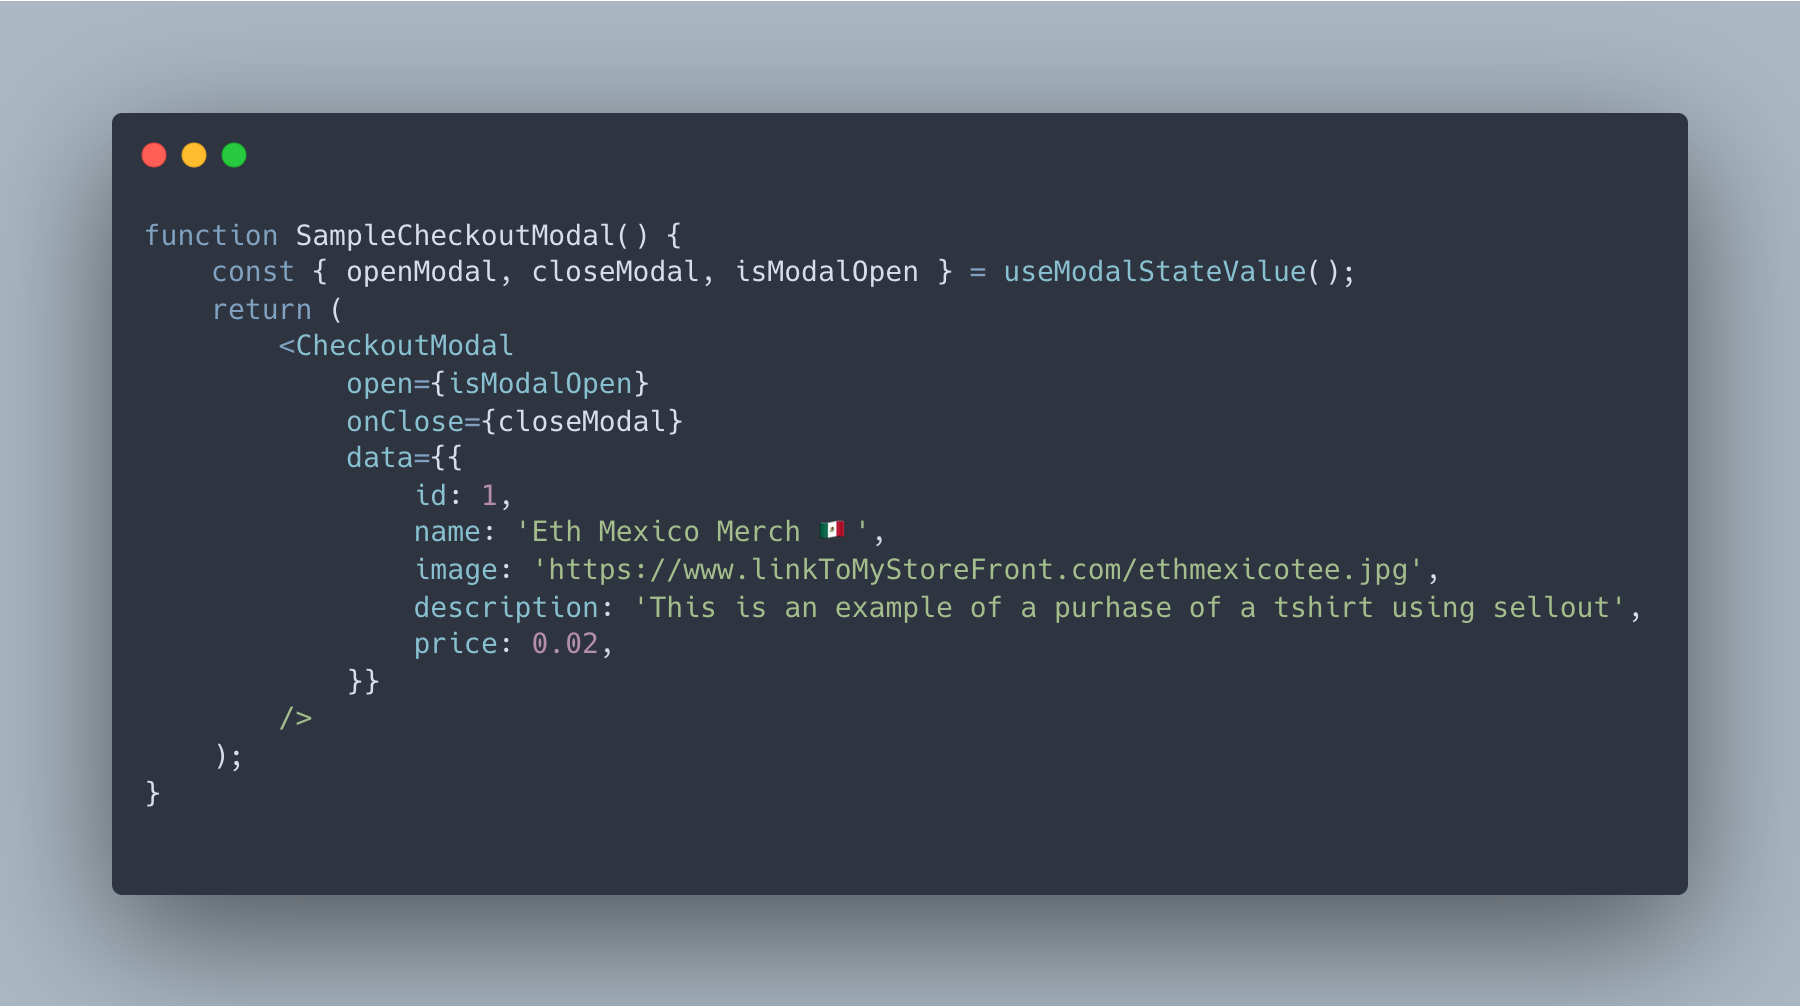
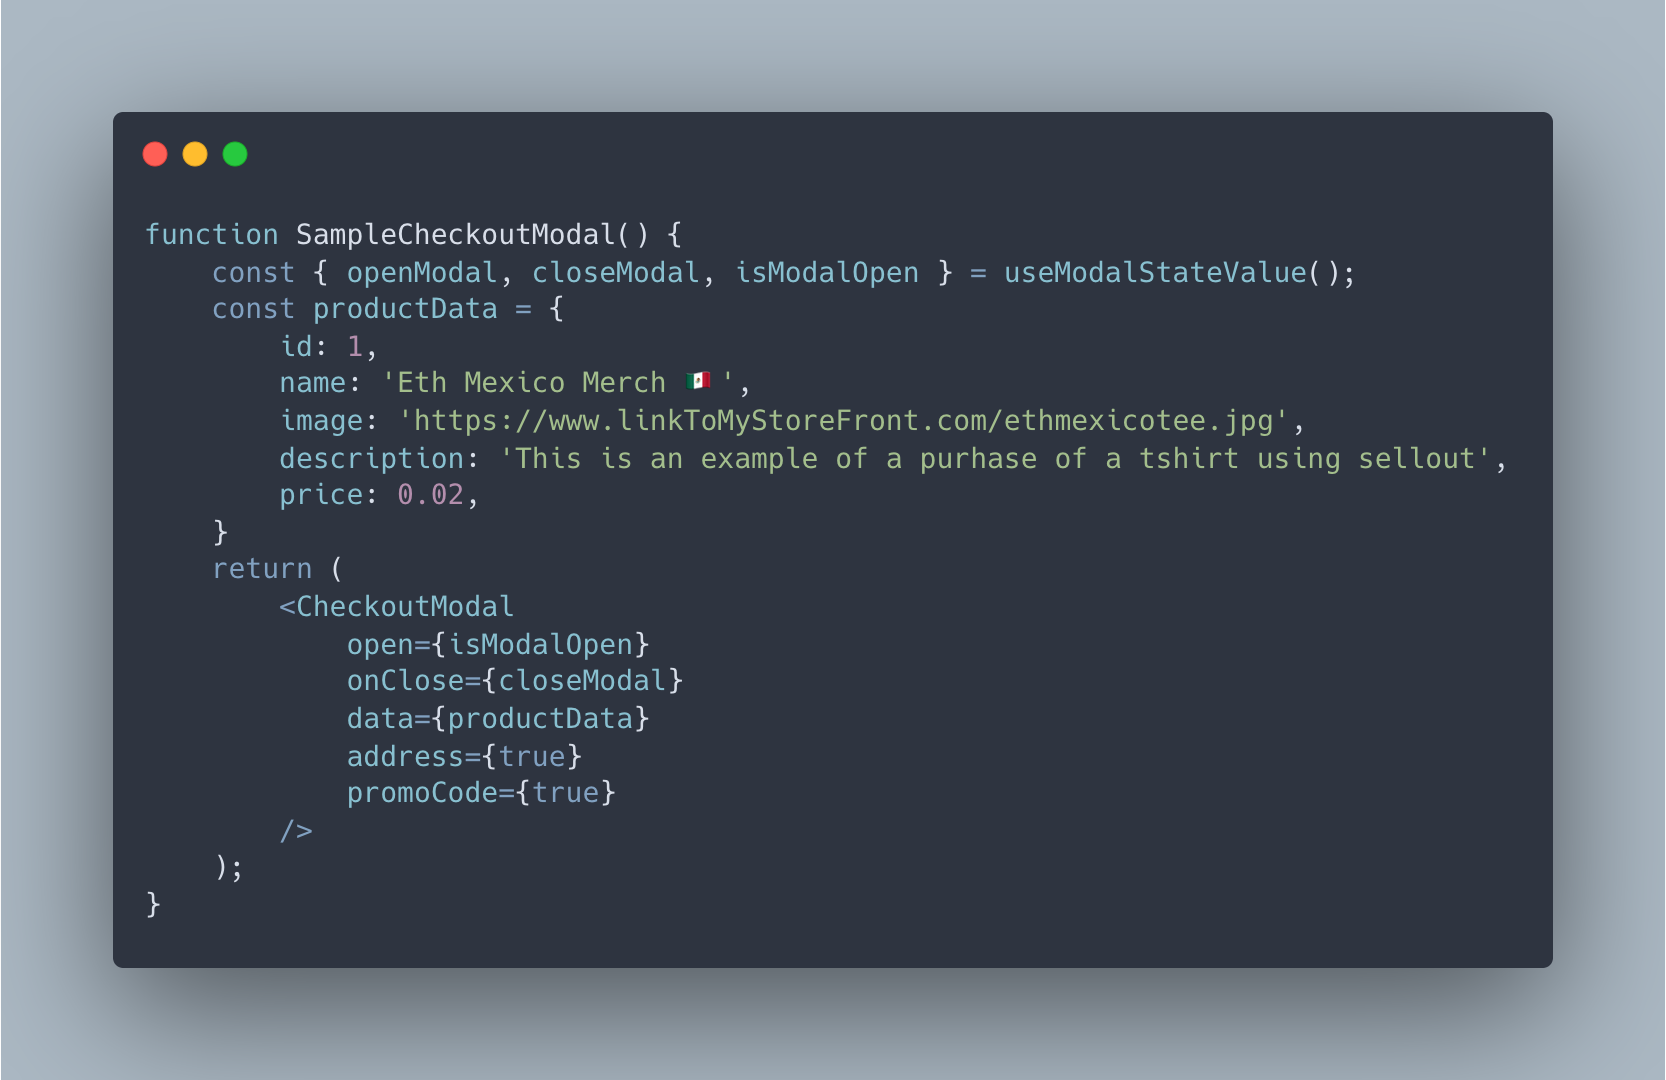
update sample code

Changed region(s): [[0.0624, 0.0924, 0.9364, 0.8936], [0.9988, 0.0, 1.0, 1.0]]

diff --git a/packages/frontend/components/SellOutCheckOut/SellOutCheckOut.tsx b/packages/frontend/components/SellOutCheckOut/SellOutCheckOut.tsx
@@ -296,6 +296,7 @@ export function ThemeModes() {
 export function AddressInput() {
 	return (
 		<div
+			className=" rounded-2xl text-textmain w-full flex-col mx-10 flex h-28 shadow mt-5 p-5"
 			onClick={(e) => {
 				e.stopPropagation();
 			}}
@@ -304,8 +305,9 @@ export function AddressInput() {
 				onFocus={(e) => {
 					e.stopPropagation();
 				}}
-				type="text"
+				type="description"
 				placeholder="Enter your address"
+				className="bg-bgmain h-full placeholder:text-textmain"
 			/>
 		</div>
 	);
@@ -314,6 +316,7 @@ export function AddressInput() {
 export function PromoCode() {
 	return (
 		<div
+			className=" rounded-2xl text-textmain w-full flex-col mx-10 flex h-16 shadow mt-5 p-5"
 			onClick={(e) => {
 				e.stopPropagation();
 			}}
@@ -323,6 +326,7 @@ export function PromoCode() {
 					e.stopPropagation();
 				}}
 				type="text"
+				className="bg-bgmain placeholder:text-textmain"
 				placeholder="Enter your promo code"
 			/>
 		</div>

diff --git a/packages/frontend/pages/componentExamples/index.tsx b/packages/frontend/pages/componentExamples/index.tsx
@@ -1,0 +1,34 @@
+import Header from '@/components/Header';
+import Head from 'next/head';
+
+export default function ComponentExamples() {
+	return (
+		<div className={''}>
+			<Head>
+				<title>Create-Web3 App</title>
+				<meta name="description" content="Generated by npx create-web3" />
+				<link rel="icon" href="/favicon.ico" />
+			</Head>
+			<Header />
+
+			<main
+				style={{
+					minHeight: '60vh',
+					flex: '1',
+					display: 'flex',
+					// flexDirection: 'row',
+					justifyContent: 'center',
+					alignItems: 'center',
+				}}
+				className="flex md:flex-row flex-col"
+			>
+				<div className=" flex flex-1 h-full md:justify-end justify-center mr-5">
+					<img src="/ModalComponent.png" className="w-[80%] rounded-lg" />
+				</div>
+				<div className=" flex flex-1 h-full justify-center md:justify-start ">
+					<img src="/SelloutProvider.png" className="w-[70%] rounded-lg" />
+				</div>
+			</main>
+		</div>
+	);
+}

diff --git a/packages/frontend/components/SellOutCheckOut/SampleCheckoutCode.tsx b/packages/frontend/components/SellOutCheckOut/SampleCheckoutCode.tsx
@@ -5,19 +5,14 @@ import { useModalStateValue } from './ModalContext';
 
 function SampleCheckoutModal() {
 	const { openModal, closeModal, isModalOpen } = useModalStateValue();
-	return (
-		<CheckoutModal
-			open={isModalOpen}
-			onClose={closeModal}
-			data={{
-				id: 1,
-				name: 'Eth Mexico Merch 🇲🇽',
-				image: 'https://www.linkToMyStoreFront.com/ethmexicotee.jpg',
-				description: 'This is an example of a purhase of a tshirt using sellout',
-				price: 0.02,
-			}}
-		/>
-	);
+	const productData = {
+		id: 1,
+		name: 'Eth Mexico Merch 🇲🇽',
+		image: 'https://www.linkToMyStoreFront.com/ethmexicotee.jpg',
+		description: 'This is an example of a purhase of a tshirt using sellout',
+		price: 0.02,
+	};
+	return <CheckoutModal open={isModalOpen} onClose={closeModal} data={productData} address={true} promoCode={true} />;
 }
 
 import { ModalProvider as SelloutModalProvider } from '@/context/SellOutProvider';

diff --git a/packages/frontend/components/Header.tsx b/packages/frontend/components/Header.tsx
@@ -19,6 +19,9 @@ export default function Header() {
 				<div className=" text-lg font-bold font-rounded">
 					<Link href="/mint">Mint</Link>
 				</div>
+				<div className=" text-lg font-bold font-rounded">
+					<Link href="/componentExamples">Components</Link>
+				</div>
 			</div>
 			<div className="flex flex-1 justify-end">
 				<ConnectButton chainStatus={'icon'} accountStatus={'address'} showBalance={false} />
